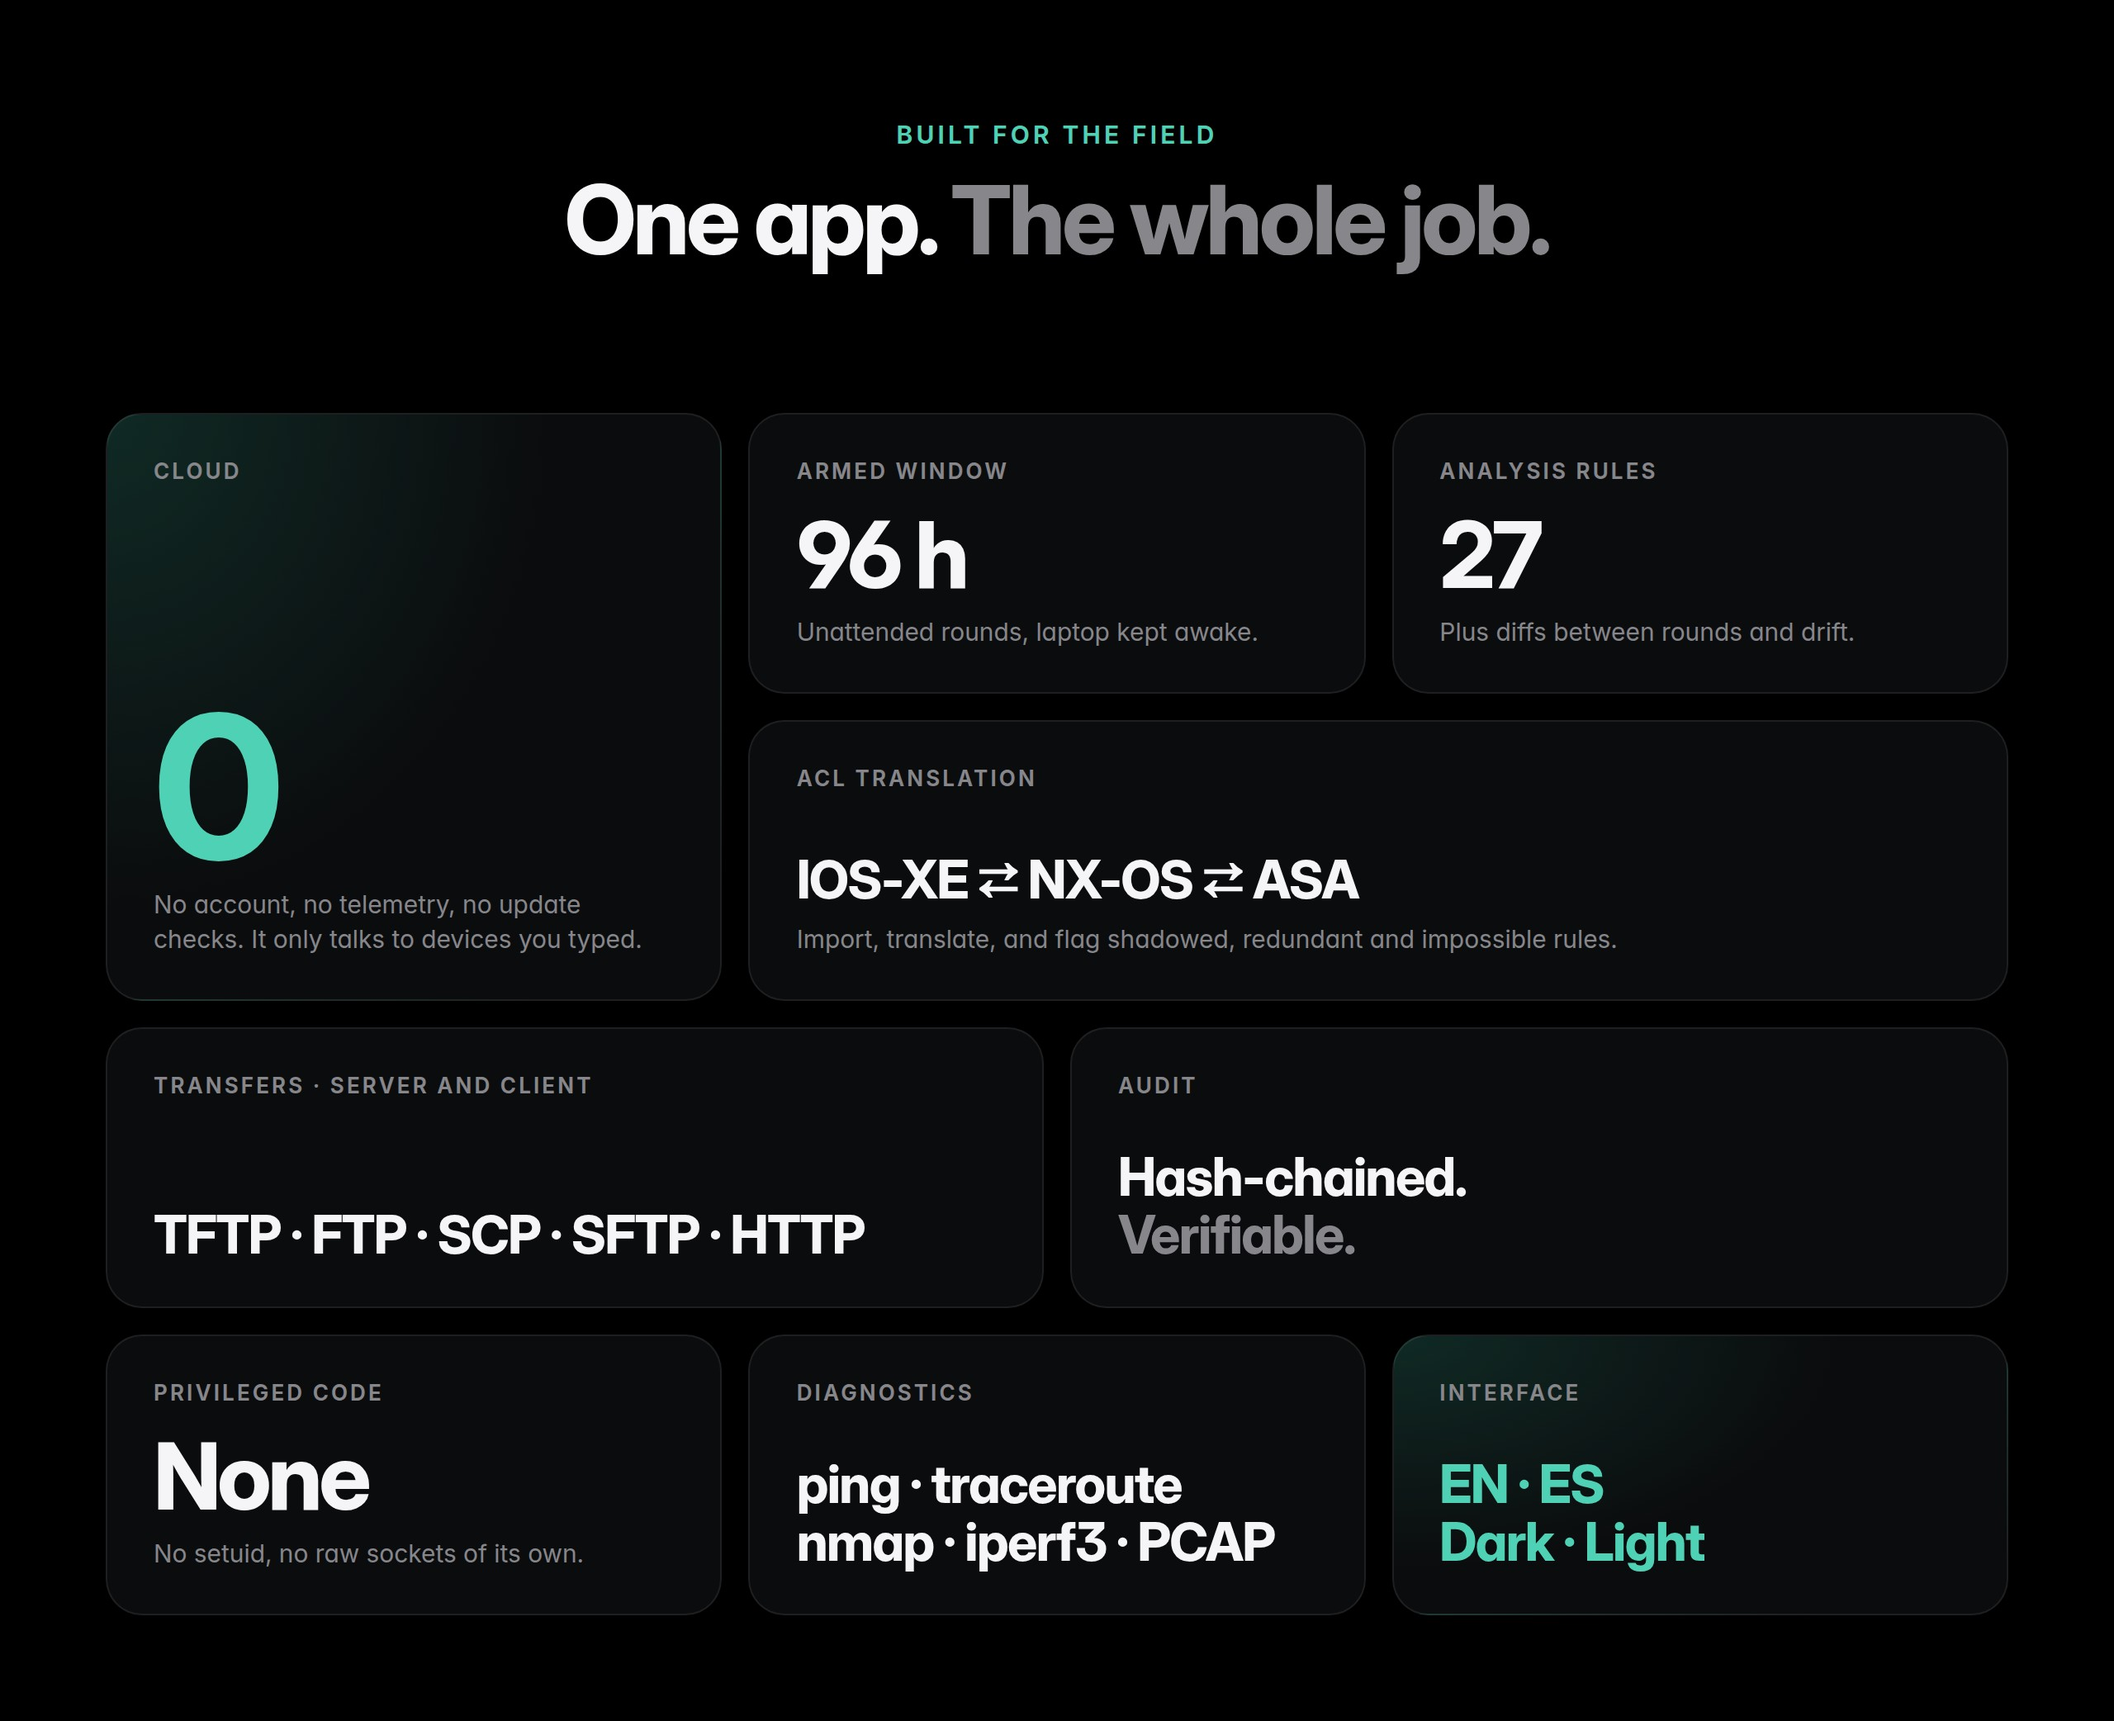
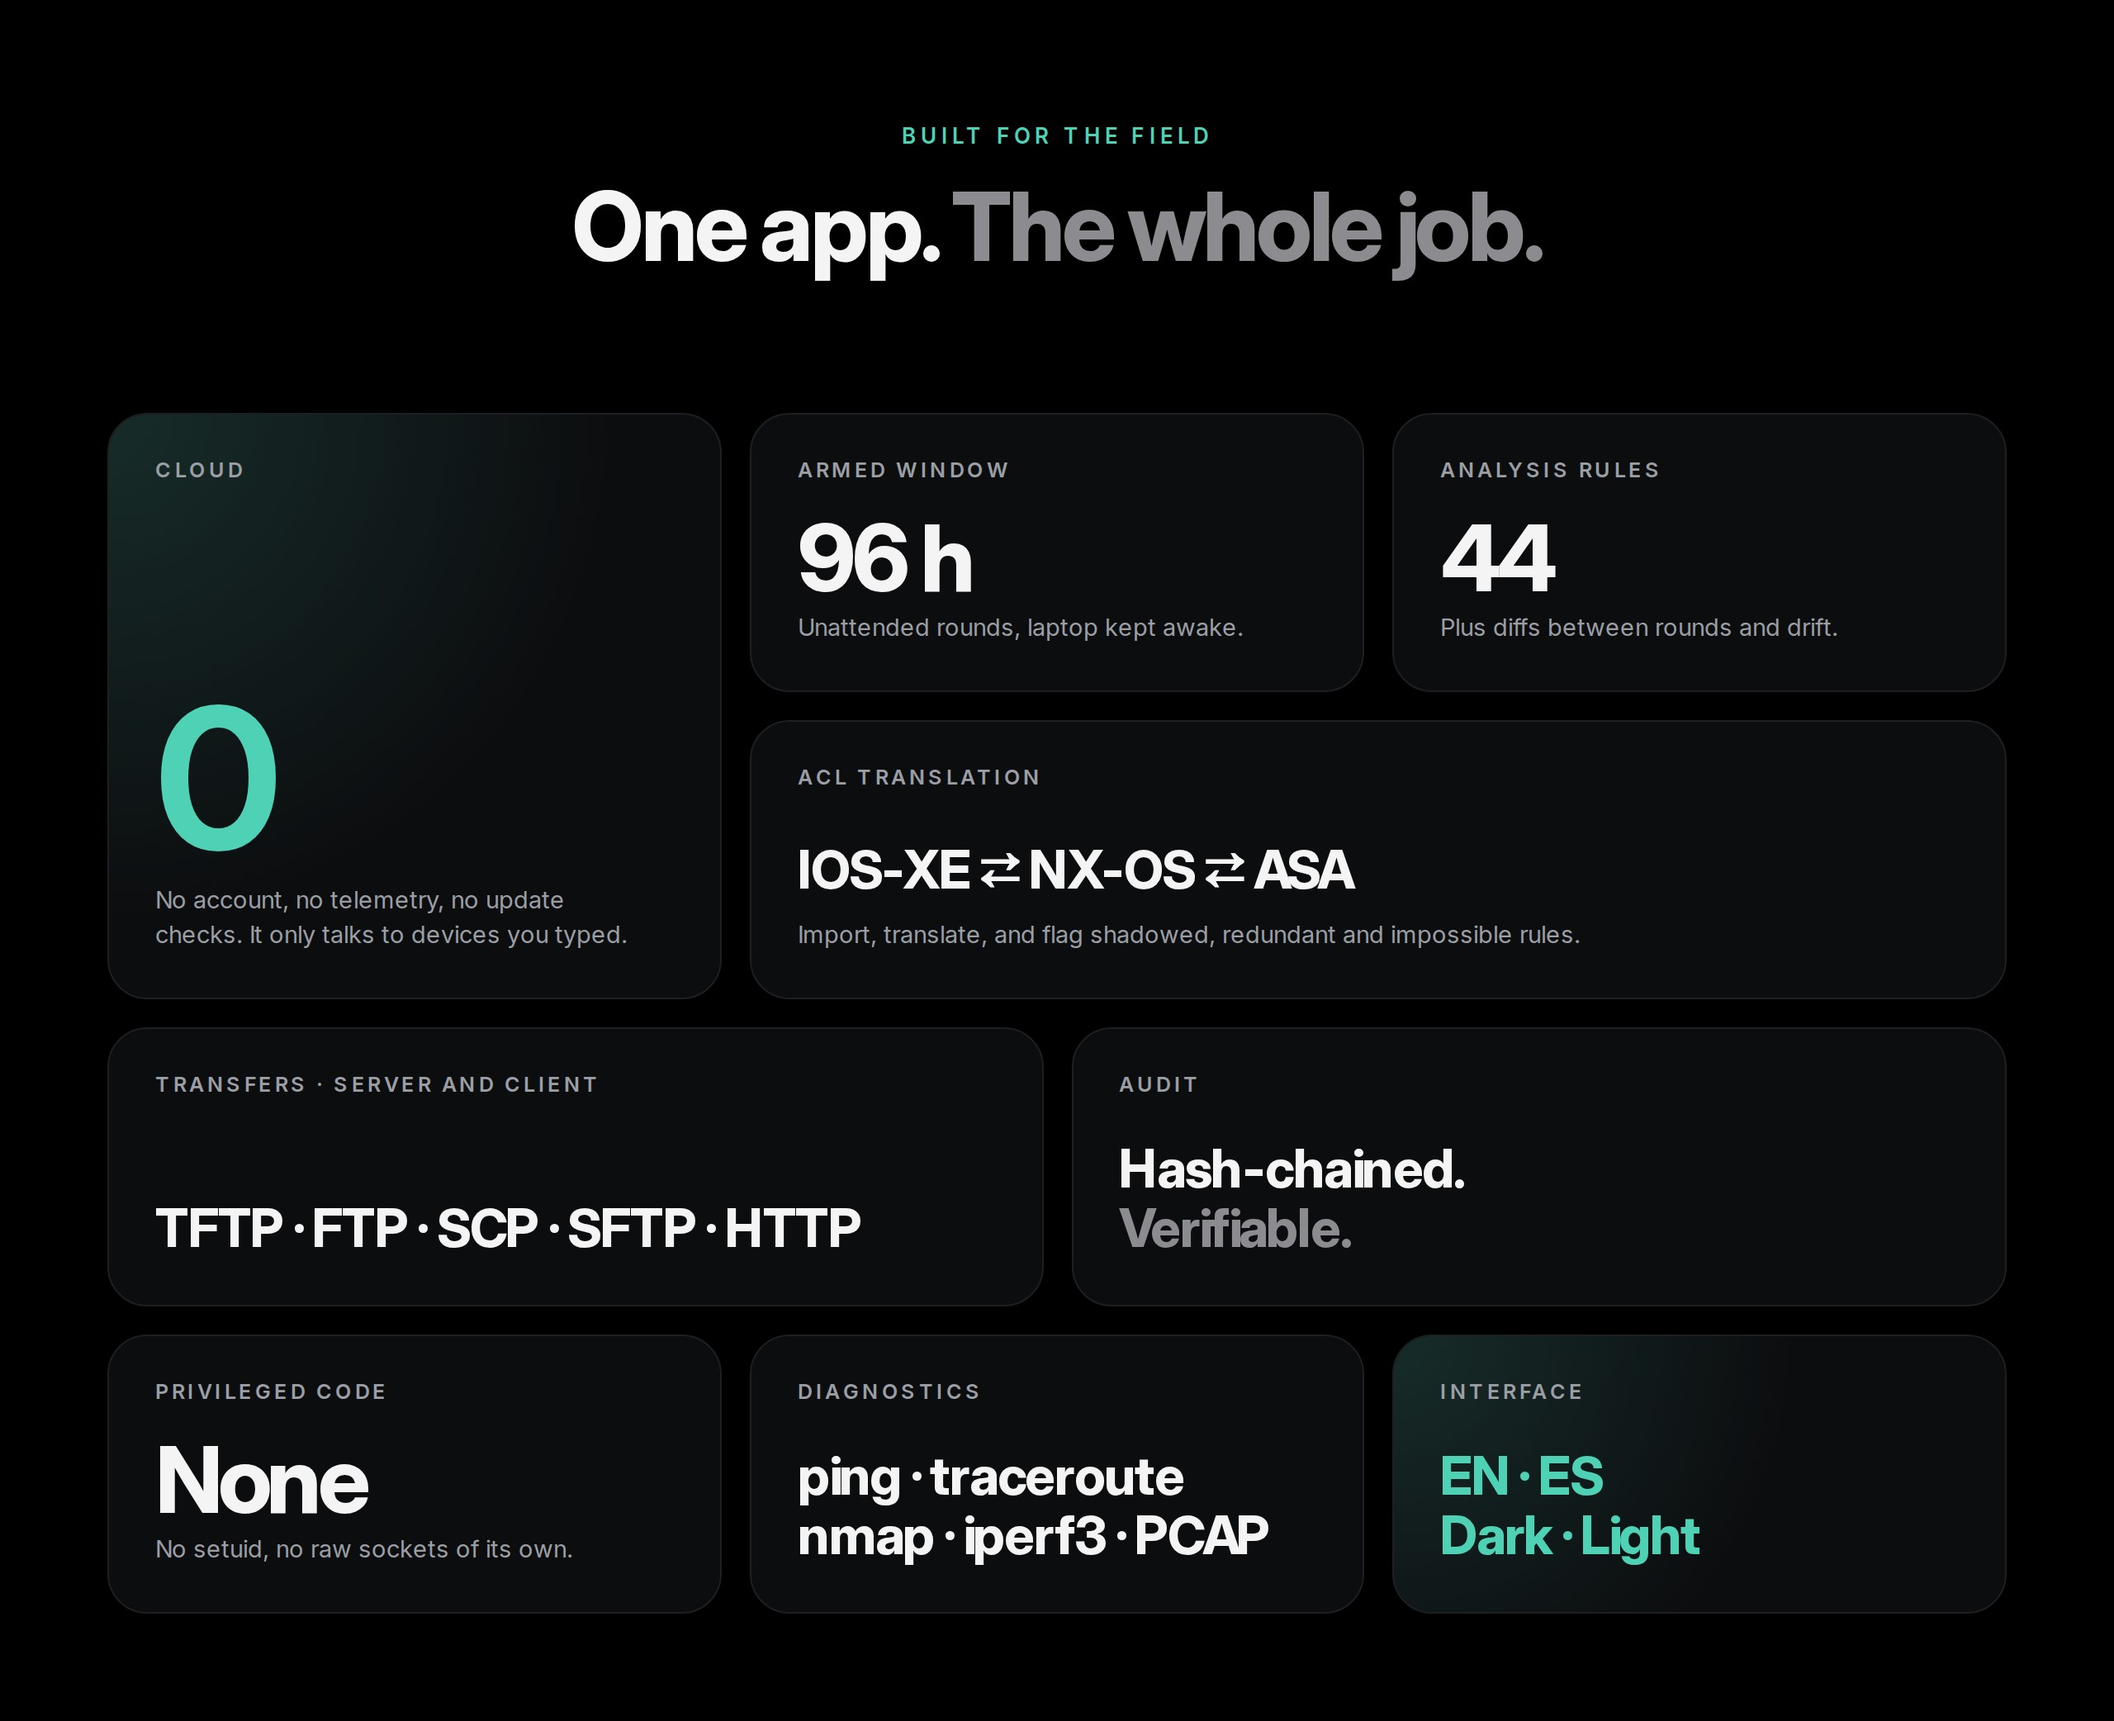
Portada: bento.jpg sale de una fuente HTML renderizada con Playwright, con el número de reglas contado en internal/analyze/rules (44)
- docs/assets/pro/src/bento.html (mismo diseño y medidas, fuentes Inter de la app) y render.cjs (cuenta las reglas y renderiza el JPG de 2560×2084); README.md ahí con los pasos.
- README: el texto alternativo dice 44 reglas.
- tools/packaging: el README tiene que decir el número de analyze.DefaultRules.

diff --git a/docs/assets/pro/src/bento.html b/docs/assets/pro/src/bento.html
@@ -1,0 +1,85 @@
+<!doctype html>
+<!-- Fuente de docs/assets/pro/bento.jpg. No se edita el JPG: se cambia este archivo y se corre render.cjs (ver README.md aquí). -->
+<html lang="en">
+<head>
+<meta charset="utf-8">
+<title>bento</title>
+<style>
+  @font-face { font-family: "Inter"; src: url("../../../../ui/frontend/src/assets/fonts/InterVariable-latin.woff2") format("woff2"); font-weight: 100 900; }
+  :root { --bg: #000; --card: #0c0d0f; --line: #1d1f23; --ink: #f4f4f5; --dim: #8b8b90; --mute: #9b9ea4; --teal: #4fd1b5; }
+  * { box-sizing: border-box; margin: 0; }
+  html, body { width: 1280px; height: 1042px; background: var(--bg); color: var(--ink); font-family: "Inter", sans-serif; -webkit-font-smoothing: antialiased; }
+  header { text-align: center; padding-top: 74px; }
+  .eyebrow { color: var(--teal); font-size: 13px; font-weight: 600; letter-spacing: 0.2em; }
+  h1 { margin-top: 18px; font-size: 58px; font-weight: 750; letter-spacing: -0.045em; line-height: 1; }
+  h1 span { color: var(--dim); }
+  .grid { position: absolute; left: 65px; top: 250px; width: 1150px; display: grid; grid-template-columns: repeat(6, 1fr); grid-template-rows: repeat(4, 169px); gap: 17px; }
+  .card { position: relative; overflow: hidden; background: var(--card); border: 1px solid var(--line); border-radius: 24px; padding: 26px 28px 28px; display: flex; flex-direction: column; }
+  .s2 { grid-column: span 2; } .s3 { grid-column: span 3; } .s4 { grid-column: span 4; } .tall { grid-row: span 2; }
+  .glow::before { content: ""; position: absolute; inset: 0; background: radial-gradient(circle at 0 0, rgba(79, 209, 181, 0.16), transparent 60%); pointer-events: none; }
+  .label { position: relative; color: var(--mute); font-size: 12.5px; font-weight: 600; letter-spacing: 0.14em; text-transform: uppercase; }
+  .big { position: relative; margin-top: 18px; font-size: 56px; font-weight: 750; letter-spacing: -0.05em; line-height: 1; }
+  .huge { position: relative; margin-top: auto; color: var(--teal); font-size: 118px; font-weight: 700; letter-spacing: -0.04em; line-height: 1; }
+  .mid { position: relative; margin-top: auto; font-size: 32px; font-weight: 750; letter-spacing: -0.035em; line-height: 1.12; }
+  .mid .dim { color: var(--dim); }
+  .teal { color: var(--teal); }
+  .sub { position: relative; margin-top: auto; color: var(--mute); font-size: 14.5px; line-height: 1.45; }
+  .mid + .sub { margin-top: 10px; }
+  .huge + .sub { margin-top: 4px; }
+</style>
+</head>
+<body>
+  <header>
+    <div class="eyebrow">BUILT FOR THE FIELD</div>
+    <h1>One app. <span>The whole job.</span></h1>
+  </header>
+  <main class="grid">
+    <section class="card s2 tall glow">
+      <div class="label">Cloud</div>
+      <div class="huge">0</div>
+      <p class="sub">No account, no telemetry, no update<br>checks. It only talks to devices you typed.</p>
+    </section>
+    <section class="card s2">
+      <div class="label">Armed window</div>
+      <div class="big">96 h</div>
+      <p class="sub">Unattended rounds, laptop kept awake.</p>
+    </section>
+    <section class="card s2">
+      <div class="label">Analysis rules</div>
+      <!-- render.cjs pasa el número contado en internal/analyze/rules como ?rules=N -->
+      <div class="big" id="rules">—</div>
+      <p class="sub">Plus diffs between rounds and drift.</p>
+    </section>
+    <section class="card s4">
+      <div class="label">ACL translation</div>
+      <div class="mid">IOS-XE ⇄ NX-OS ⇄ ASA</div>
+      <p class="sub">Import, translate, and flag shadowed, redundant and impossible rules.</p>
+    </section>
+    <section class="card s3">
+      <div class="label">Transfers · Server and client</div>
+      <div class="mid">TFTP · FTP · SCP · SFTP · HTTP</div>
+    </section>
+    <section class="card s3">
+      <div class="label">Audit</div>
+      <div class="mid">Hash-chained.<br><span class="dim">Verifiable.</span></div>
+    </section>
+    <section class="card s2">
+      <div class="label">Privileged code</div>
+      <div class="big">None</div>
+      <p class="sub">No setuid, no raw sockets of its own.</p>
+    </section>
+    <section class="card s2">
+      <div class="label">Diagnostics</div>
+      <div class="mid">ping · traceroute<br>nmap · iperf3 · PCAP</div>
+    </section>
+    <section class="card s2 glow">
+      <div class="label">Interface</div>
+      <div class="mid teal">EN · ES<br>Dark · Light</div>
+    </section>
+  </main>
+  <script>
+    const n = new URLSearchParams(location.search).get("rules");
+    if (n && /^\d+$/.test(n)) document.getElementById("rules").textContent = n;
+  </script>
+</body>
+</html>

diff --git a/tools/packaging/textos_test.go b/tools/packaging/textos_test.go
@@ -1,12 +1,15 @@
 package packaging
 
 import (
+	"fmt"
 	"os"
 	"path/filepath"
 	"regexp"
 	"strconv"
 	"strings"
 	"testing"
+
+	"github.com/oom-netsec/MACUAHUITL/internal/analyze"
 )
 
 func leer(t *testing.T, partes ...string) string {
@@ -76,6 +79,21 @@ func TestReadmeCuentaPlaybooksDePacks(t *testing.T) {
 		pbs, _ := filepath.Glob(filepath.Join(repoRoot(), "packs", f[1], "playbooks", "*.yaml"))
 		if n, _ := strconv.Atoi(f[2]); n != len(pbs) {
 			t.Errorf("README dice %d playbooks en oom/%s; packs/%s/playbooks trae %d", n, f[1], f[1], len(pbs))
+		}
+	}
+}
+
+// El README (tabla y texto alternativo de bento.jpg) dice cuántas reglas de análisis trae el núcleo; render.cjs dibuja el mismo
+// número en la imagen.
+func TestReadmeCuentaReglas(t *testing.T) {
+	rules, err := analyze.DefaultRules()
+	if err != nil {
+		t.Fatal(err)
+	}
+	readme := leer(t, "README.md")
+	for _, want := range []string{fmt.Sprintf("%d analysis rules", len(rules)), fmt.Sprintf("%d rules over", len(rules))} {
+		if !strings.Contains(readme, want) {
+			t.Errorf("README sin %q (el núcleo trae %d reglas; regenera bento.jpg con docs/assets/pro/src/render.cjs)", want, len(rules))
 		}
 	}
 }

diff --git a/docs/assets/pro/src/README.md b/docs/assets/pro/src/README.md
@@ -1,0 +1,13 @@
+# Fuentes de las imágenes de la portada
+
+`bento.html` es la fuente de `../bento.jpg` (2560×2084). No se retoca el JPG: se cambia el HTML y se vuelve a renderizar.
+El número de reglas de análisis no está escrito en el HTML: `render.cjs` lo cuenta en `internal/analyze/rules` y lo pasa
+a la página. `tools/packaging` falla si el README dice otro número que el de `analyze.DefaultRules`.
+
+```sh
+npm install --prefix /tmp/pw playwright-core@1.56.1        # una vez, fuera del repo (Apache-2.0)
+/tmp/pw/node_modules/.bin/playwright-core install chromium-headless-shell
+PLAYWRIGHT_CORE=/tmp/pw/node_modules/playwright-core node docs/assets/pro/src/render.cjs
+```
+
+La fuente tipográfica es la de la app (`ui/frontend/src/assets/fonts`, OFL); el render falla si no carga.

diff --git a/README.md b/README.md
@@ -46,7 +46,7 @@ and keep a verifiable record of everything. On your machine. Nowhere else.
 
 <br>
 
-<p align="center"><img src="docs/assets/pro/bento.jpg" alt="One app, the whole job: zero cloud, 96 h armed windows, 27 analysis rules, ACL translation between IOS-XE, NX-OS and ASA, TFTP/FTP/SCP/SFTP/HTTP transfers, hash-chained audit, no privileged code, ping/traceroute/nmap/iperf3/PCAP, English and Spanish, dark and light."></p>
+<p align="center"><img src="docs/assets/pro/bento.jpg" alt="One app, the whole job: zero cloud, 96 h armed windows, 44 analysis rules, ACL translation between IOS-XE, NX-OS and ASA, TFTP/FTP/SCP/SFTP/HTTP transfers, hash-chained audit, no privileged code, ping/traceroute/nmap/iperf3/PCAP, English and Spanish, dark and light."></p>
 
 <br>
 
